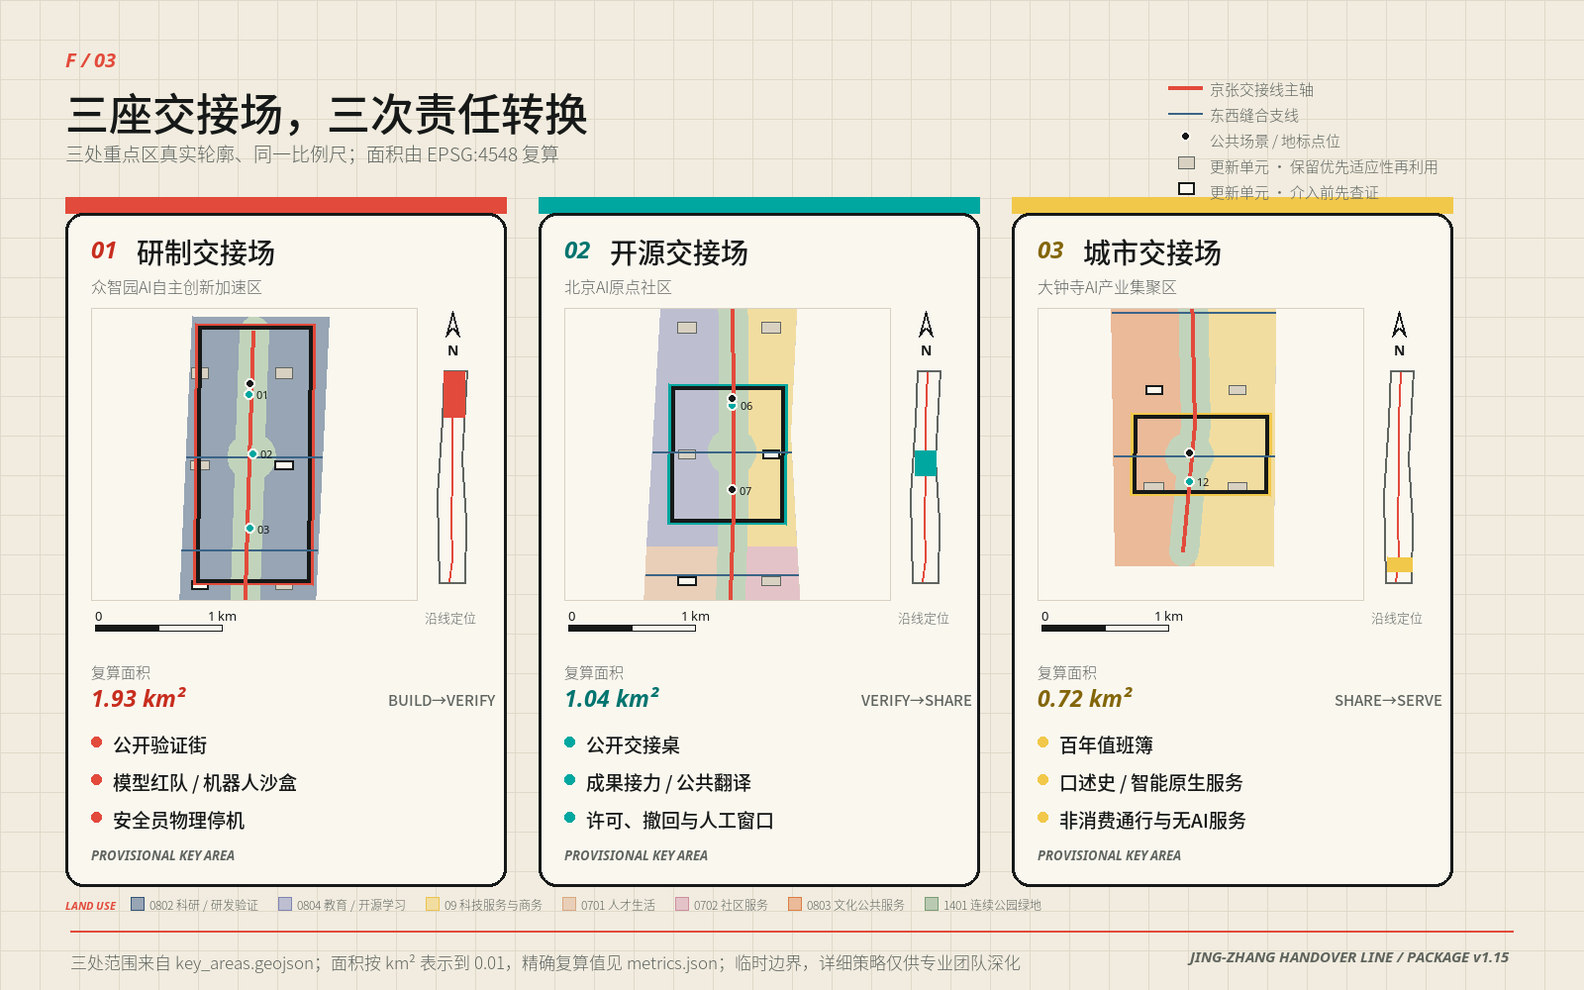
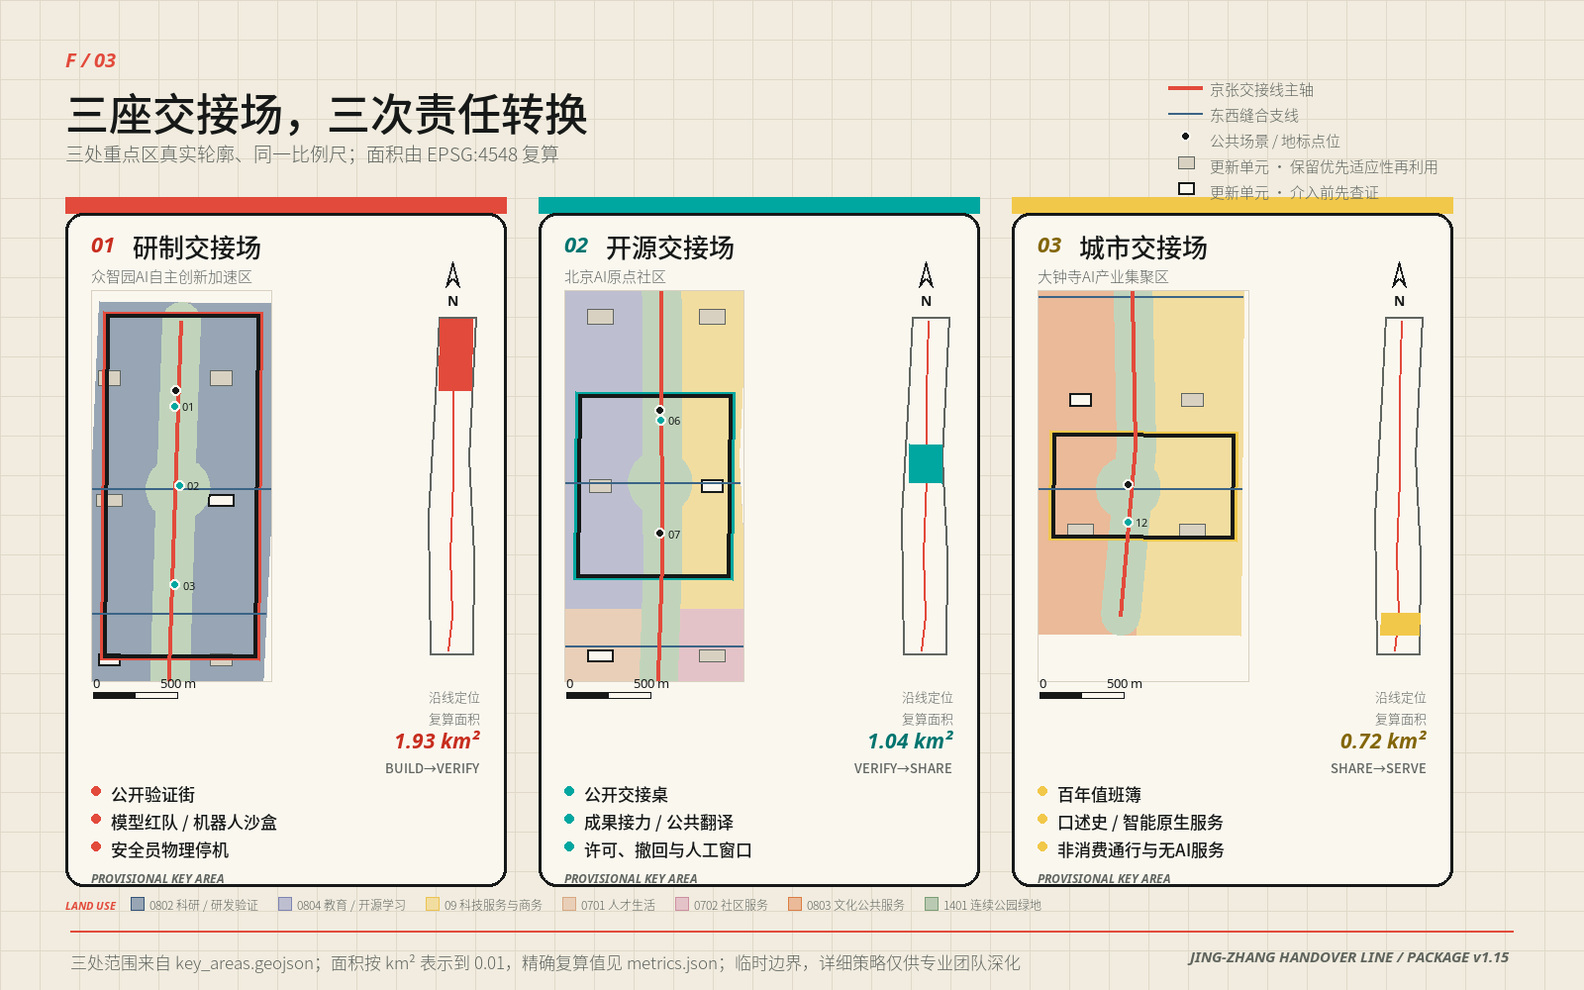
F/03 重做取景：横向裁到各区实际宽度，比例尺 128.2 → 171.6 px/km
F/03 与 F/02、F/04 不是同一个问题——它的窗口早就缩到「最大重点区」，实测
128.2 px/km。缺陷在纵横比：共享跨度 1250 × 2308 m 是 1.85:1 竖向，而主图 tile
是 330 × 296 的 1.11:1 横向，等比映射高度受限，横向恒定浪费 51%，三个重点区
分别只占 tile 面积的 33.1% / 17.8% / 12.3%。

改法：高度跨度仍三区共享（三张主图等高，矮的两区纵向保留周边环境），宽度跨度
按各区自己的范围裁到刚好。三区仍共用同一个 px/m，「同一比例尺可直接比大小」
完全保留；横向占比 33/18/12% → 一律 89%。同时压缩卡内文字，主图高度 296 →
396，比例尺 1.34×。

中间试过「逐区窗口」（宽高都按本区裁）：盲评 A/B 两轮把矮卡下方的空白点为唯一
缺点且结论相反（1:1），已否掉。改成「共享高度、逐区宽度」后重跑两个顺序，两轮
都选新版，且空白判定反转——两轮现在都说旧版才有无效留白。data_loss 均 neither。

导读改准：三张图框宽度不同不是比例尺不同，已写明高度共享、宽度逐区的口径。

自检 formal-review-ready / YES；四道闸门 0 error；54/54、48/48、20/20 退出 0；
确定性校验 PASS，仅余两条既有 warning。

diff --git a/submissions/Sonike/jingzhang-handover-line/report/proposal.en.html b/submissions/Sonike/jingzhang-handover-line/report/proposal.en.html
@@ -218,7 +218,7 @@ code {
 <h2>Detailed Design of Key Areas</h2>
 <p>All three key areas share one spatial order: staffed civic counter, continuous step-free walking surface, directly reachable stop entrance, retained rail trace, machine test lane separated from people, and a planted rest strip with no spending threshold. A machine-only lane may not be inserted between the staffed counter, walkway and stop entrance. This adjacency rule turns human takeover from a process chart into an urban-design relationship <sup class="evidence evidence-depth" data-evidence-kind="depth" data-evidence-value="three_key_area_detailed_design" title="Depth: three_key_area_detailed_design">Depth</sup> <sup class="evidence evidence-standard" data-evidence-kind="standard" data-evidence-value="MOHURD-URBAN-DESIGN-MEASURES" title="Standard: MOHURD-URBAN-DESIGN-MEASURES">Standard</sup>.</p>
 <figure class="proposal-figure"><img src="../assets/figures/key-areas.en.png" alt="Enlarged plans of the three key areas: distinct handover duties, scenario nodes, renewal levers and civic interfaces"><figcaption>Enlarged plans of the three key areas: distinct handover duties, scenario nodes, renewal levers and civic interfaces</figcaption></figure>
-<blockquote><p><strong>How to read this figure.</strong> The three key areas are drawn at the same scale, so their sizes can be compared directly; the narrow strip beside each card shows where that area sits along the whole corridor. The recomputed areas 1.93 / 1.04 / 0.72 km² come from the EPSG:4548 projection and carry the same decimals as <code>metrics.json</code>. The three lines under each card are the public-facing interfaces of that Handover Yard, not a construction list.</p></blockquote>
+<blockquote><p><strong>How to read this figure.</strong> The three key areas are drawn at the same scale, so their sizes can be compared directly — <strong>the three map frames differ in width, not in scale</strong>: frame height is shared across the three (set by the tallest area, so the two shorter ones keep the surrounding corridor above and below), while frame width is cut to each area&#x27;s own extent, which removes the empty left and right margins. Previously all three frames were equally wide even though the widest key area is only 1116 m, so about half of each frame was permanently wasted. The narrow strip beside each card shows where that area sits along the whole corridor. The recomputed areas 1.93 / 1.04 / 0.72 km² come from the EPSG:4548 projection and carry the same decimals as <code>metrics.json</code>. The three lines under each card are the public-facing interfaces of that Handover Yard, not a construction list.</p></blockquote>
 <p><strong>The three key areas are not three similar parks — their shapes already say different things.</strong> Every one of the seven rows below is recomputed directly in EPSG:4548 from <code>geometry/key_areas.geojson</code>, <code>geometry/roads.geojson</code> and <code>geometry/public_space.geojson</code>; the same method returns a spine length of 9499.778 m, matching the declared value in <code>metrics.json</code> digit for digit, so the &quot;length inside the area&quot; rows can be checked with the same ruler. <strong>But read that number correctly: the three decimals are an output of the projection calculation, not a survey precision.</strong> The input alignment is taken from the organiser&#x27;s provisional coarse extent, so <strong>the effective significance of this line reaches only the hundred-metre level — it means &quot;about 9.5 km&quot;</strong>. Full decimals are retained for one purpose only, so anyone can recompute digit by digit; they claim no millimetre measurement. The same rule for every geometry-derived value is stated in <code>metrics.json#precision_policy_en</code>.</p>
 <div class="proposal-table"><table><thead><tr><th>Recomputed item</th><th>Zhongzhiyuan (Build)</th><th>Origin Community (Share)</th><th>Dazhongsi (Serve)</th></tr></thead><tbody><tr><td>Area</td><td>1.93 km²</td><td>1.04 km²</td><td>0.72 km²</td></tr><tr><td>Bounding size (E-W × N-S)</td><td>954 × 2061 m</td><td>948 × 1117 m</td><td>1116 × 657 m</td></tr><tr><td><strong>N-S ÷ E-W</strong></td><td><strong>2.16 (long north-south strip)</strong></td><td><strong>1.18 (near square)</strong></td><td><strong>0.59 (wide east-west band)</strong></td></tr><tr><td>Spine length inside the area</td><td>1999 m (21.0% of the whole)</td><td>1110 m (11.7%)</td><td>651 m (6.8%)</td></tr><tr><td>Stitch links entering</td><td>2 (links 7, 8)</td><td>1 (link 5)</td><td>1 (link 1)</td></tr><tr><td>Scenario nodes</td><td>SCN-01/02/03, <strong>all by appointment or time-bounded and enclosed</strong></td><td>SCN-06/07, <strong>all permanent, working hours</strong></td><td>SCN-12, the annual event route</td></tr><tr><td>Landmarks and renewal cells</td><td>LANDMARK-01 Handover Bell; 5 cells</td><td>LANDMARK-02 Public Handover Table, LANDMARK-04 Takeover Booth Zero; 2 cells</td><td>LANDMARK-03 Century Logbook; 2 cells</td></tr></tbody></table></div>
 <p><strong>Those three ratios invert monotonically: 2.16 → 1.18 → 0.59.</strong> This is no accident of drafting; it is what the three stages of responsibility each demand of the city — <strong>the closer a capability comes to ordinary life, the more the corridor should yield to the cross-city interface</strong>. The north is the corridor&#x27;s own ground: the narrowest, longest shape, 21% of the spine, and all three scenarios requiring physical enclosure. By the south the spine is down to 6.8% and the shape inverts for the first time to wider than it is long — <strong>where service finally meets daily life, this line steps out of the leading role on purpose</strong>. The middle is the turning point: near square, and holding the two most public-facing of the four landmarks inside 1.04 km².</p>

diff --git a/submissions/Sonike/jingzhang-handover-line/report/proposal.html b/submissions/Sonike/jingzhang-handover-line/report/proposal.html
@@ -218,7 +218,7 @@ code {
 <h2>重点区域详细设计</h2>
 <p>三处重点区域共享一套空间顺序：有人值守的公共窗口—连续无障碍步行面—可直接触及的停用入口—保留的铁路线索—与人分离的机器试验带—不设消费门槛的绿化休憩带。机器专用道不得插入人工窗口、步道和停用入口之间；这条相邻规则把“人工接管”从流程图变成了城市设计关系 <sup class="evidence evidence-depth" data-evidence-kind="depth" data-evidence-value="three_key_area_detailed_design" title="深度：three_key_area_detailed_design">深度</sup> <sup class="evidence evidence-standard" data-evidence-kind="standard" data-evidence-value="MOHURD-URBAN-DESIGN-MEASURES" title="标准：MOHURD-URBAN-DESIGN-MEASURES">标准</sup>。</p>
 <figure class="proposal-figure"><img src="../assets/figures/key-areas.png" alt="三处重点区域放大平面：不同交接职责、场景节点、更新抓手与公共界面"><figcaption>三处重点区域放大平面：不同交接职责、场景节点、更新抓手与公共界面</figcaption></figure>
-<blockquote><p><strong>这张图怎么看。</strong> 三处重点区用同一比例尺绘制，可以直接比大小；每张卡片右侧的细长条给出该重点区在整条走廊中的位置。复算面积 1.93 / 1.04 / 0.72 km² 由 EPSG:4548 投影计算，小数位与 <code>metrics.json</code> 一致。卡片下方三行是该交接场向公众开放的界面，不是建设清单。</p></blockquote>
+<blockquote><p><strong>这张图怎么看。</strong> 三处重点区用同一比例尺绘制，可以直接比大小——<strong>三张主图的图框宽度不同，不是比例尺不同</strong>：图框的高度三张共享（按最高的一区定，所以矮的两区在纵向保留了走廊的周边环境），宽度则按各区自己的范围裁到刚好，因此不再留下无内容的左右空白。原先三张图框等宽，而重点区最宽的一个也只有 1116 m，横向恒定浪费约一半画面。每张卡片右侧的细长条给出该重点区在整条走廊中的位置。复算面积 1.93 / 1.04 / 0.72 km² 由 EPSG:4548 投影计算，小数位与 <code>metrics.json</code> 一致。卡片下方三行是该交接场向公众开放的界面，不是建设清单。</p></blockquote>
 <p><strong>三处重点区不是三个相似园区——它们的形状本身就在说不同的话。</strong> 下面七行全部由 <code>geometry/key_areas.geojson</code>、<code>geometry/roads.geojson</code> 与 <code>geometry/public_space.geojson</code> 在 EPSG:4548 下直接复算；同法复算的主轴全长为 9499.778 m，与 <code>metrics.json</code> 的声明值逐位一致，因此下列「区内长度」可以用同一把尺子复核。<strong>但要把这个数读对：三位小数是投影计算的输出，不是实测精度。</strong> 输入线形取自组织方临时粗略范围，<strong>这条线的有效位数实际只到百米级——它的意思是「约 9.5 km」</strong>；保留全部小数位的唯一用途是让任何人逐位复算校对，不是宣称测到了毫米。全部几何推算值的同一口径写在 <code>metrics.json#precision_policy_zh</code>。</p>
 <div class="proposal-table"><table><thead><tr><th>复算项</th><th>众智园（研制）</th><th>原点社区（开源）</th><th>大钟寺（城市）</th></tr></thead><tbody><tr><td>面积</td><td>1.93 km²</td><td>1.04 km²</td><td>0.72 km²</td></tr><tr><td>外接尺度（东西 × 南北）</td><td>954 × 2061 m</td><td>948 × 1117 m</td><td>1116 × 657 m</td></tr><tr><td><strong>南北 ÷ 东西</strong></td><td><strong>2.16（纵向长条）</strong></td><td><strong>1.18（近方形）</strong></td><td><strong>0.59（横向扁）</strong></td></tr><tr><td>主轴在区内长度</td><td>1999 m（占全长 21.0%）</td><td>1110 m（11.7%）</td><td>651 m（6.8%）</td></tr><tr><td>贯入的东西支线</td><td>2 条（支线 7、8）</td><td>1 条（支线 5）</td><td>1 条（支线 1）</td></tr><tr><td>场景节点</td><td>SCN-01／02／03，<strong>全部预约或限时封闭</strong></td><td>SCN-06／07，<strong>全部常设工作时段</strong></td><td>SCN-12，年度活动路线</td></tr><tr><td>地标与更新单元</td><td>LANDMARK-01 交接钟；5 个单元</td><td>LANDMARK-02 公开交接桌、LANDMARK-04 零号接管亭；2 个单元</td><td>LANDMARK-03 百年值班簿；2 个单元</td></tr></tbody></table></div>
 <p><strong>这三个长宽比是单调翻转的：2.16 → 1.18 → 0.59。</strong> 这不是画图的偶然，而是三段责任对城市提出的不同要求——<strong>一项能力越接近日常生活，走廊就越应该让位给横向的城市界面</strong>。北段是廊道的主场：形状最狭长、主轴占到全长的 21%、三个需要物理封闭的测试场景全部在这里；到了南段，主轴只剩 6.8%，形状第一次翻成东西向大于南北向——<strong>在服务真正与日常生活相接的那一段，这条线主动退出主角位置</strong>。中段是转换点：近方形，且四处地标中最面向公众的两处都落在这 1.04 km² 里。</p>

diff --git a/submissions/Sonike/jingzhang-handover-line/changelog.md b/submissions/Sonike/jingzhang-handover-line/changelog.md
@@ -1,5 +1,12 @@
 # 方案迭代记录
 
+- **F/03 重做取景：横向裁到各区实际宽度，消掉恒定约一半的画面浪费（2026-08-21，不改版本号）。** F/03 与 F/02、F/04 不是同一个问题——它的窗口早就缩到「最大重点区」（跨度取三区最大宽与最大高各乘 1.12），实测 **128.2 px/km**，是三张走廊图里最好的。真正的缺陷在纵横比：**共享跨度 1250 × 2308 m 是 1.85:1 的竖向，而主图 tile 是 330 × 296 的 1.11:1 横向**，Viewport 等比映射、高度受限，于是**横向恒定浪费 51%**，三个重点区分别只占 tile 面积的 33.1% / 17.8% / 12.3%。
+  - **改法**：高度跨度仍三区共享（按最高的一区定，所以三张主图等高，矮的两区在纵向保留走廊的周边环境），**宽度跨度改为按各区自己的范围裁到刚好**。三区仍共用同一个 px/m，「同一比例尺、可直接比大小」这条性质完全保留；三区在自己图框里的横向占比由 33/18/12% 一律变成 **89%**。同时压缩卡内文字（名称 28→26、要点 19→17、面积块与流向收成右侧纵向堆叠），主图高度 **296 → 396**，比例尺 **128.2 → 171.6 px/km（1.34×）**。
+  - **中间试过一版被盲评否掉，记在这里以免重走。** 先做的是「逐区窗口」（宽高都按本区裁），比例尺同样是 1.34×，但矮的两区主图变短、下方出现大片空白。**盲评 A/B 两轮把那片空白点为唯一缺点，且两轮结论相反（1:1）**——一轮认为旧版的周边环境反而更有助于辨认卡 3。改成「共享高度、逐区宽度」后重跑两个顺序，**两轮都选新版，且空白的判定反转：两轮现在都说旧版才有无效留白**（「等宽地图框为狭长重点区保留了较多无有效空间信息的左右留白」），正是那 51%。四项判据（`legibility_768`／`comparability`／`spatial_design_content`／`which_would_you_score_higher`）两轮全部指向新版，`data_loss` 两轮均为 `neither`。
+  - **一条边界写进生成器注释**：重点区几何是临时范围的矩形盒子，二十个更新单元也是矩形、中位尺寸 141 × 72 m。放大比例尺只会让这些盒子更清楚，**不会出现建筑级的设计内容**——那要等官方几何。所以 1.34× 已接近「三卡并排 ＋ 同一比例尺 ＋ 保留全部文字」这三个约束下的上限。
+  - **导读同时改准**：三张主图的图框宽度不同，读者可能误读成比例尺不同，正文已写明「图框宽度不同，不是比例尺不同」并说明高度共享、宽度逐区的口径。
+  - 未动：F/01、F/05、全部几何、`metrics.json`、四套图纸。中英同位改动并重出两份 HTML，均 1186 行、69 标题、逐行对齐零错位。
+
 - **重做 F/02 与 F/04 的取景：把 9.7 km 的走廊沿主轴展开，比例尺提 3.92× 与 2.69×（2026-08-21，不改版本号）。** 本轮先量了一件此前没量过的事：**评审看到的图件不是 1600×1000。** `scripts/ai_review_submission.py` 附图用 `"detail": "high"`，图像先缩进 2048 框、再把**短边压到 768**、然后切 512 瓦片，所以送审图件在评审那侧的实际尺寸是 **1229×768、6 个瓦片**。图件本身**不降采样**（脚本里没有 resize，只有 PDF 走 72 dpi），字节上限 `--max-image-bytes` 默认 **4 MiB** 而本包每张只有 150–225 KB——**瓶颈从来不是字节，是版式。**
   - **量出来的浪费**：场地 bbox 是 **1.374 × 9.723 km（纵横比 7.08:1，长轴方位 -90.41°，即几乎正南北）**，图框是 1.60:1。按北在上竖排时，**F/02 的走廊比例尺只有 51.6 px/km、外接范围占画面 2.22%**，F/04 是 51.0 px/km、2.17%。也就是说两张图各有九成七以上的画面不在画走廊。**三份外部评审说的「空间设计含量低、更像运营策划而不是城市设计」，确切来源就在这里——不是内容不够，是取景把它压没了。**
   - **改法是展开取景，不是放大**：沿长轴切段、旋转 90° CW 后横向堆叠。最优段数由可用图面比例决定，**n = sqrt(L·H/(W·w))**。F/02 的地图区 1092×604 给出 n=1.98 → **切 2 段**，比例尺 **51.6 → 202.5 px/km（3.92×）**、外接范围 2.22% → **34.26%**（面积 15.4×）；切 3 段会变成高度受限（约 120 px/km），比 2 段更差。F/04 的地图区在原版式里只有 470 宽，**在那里旋转反而更差（41.7 px/km）**——取景收益取决于「地图区拿到的是长边还是短边」，所以 F/04 改成**全宽单段横条** 1412×200，比例尺 **51.0 → 137.0 px/km（2.69×）**、外接范围 2.17% → **15.67%**，此时 n=1.11 → 单段最优。

diff --git a/submissions/Sonike/jingzhang-handover-line/proposal.en.md b/submissions/Sonike/jingzhang-handover-line/proposal.en.md
@@ -332,7 +332,7 @@ FAR, total floor area, statutory building density, height, setbacks, road redlin
 All three key areas share one spatial order: staffed civic counter, continuous step-free walking surface, directly reachable stop entrance, retained rail trace, machine test lane separated from people, and a planted rest strip with no spending threshold. A machine-only lane may not be inserted between the staffed counter, walkway and stop entrance. This adjacency rule turns human takeover from a process chart into an urban-design relationship [depth:three_key_area_detailed_design] [standard:MOHURD-URBAN-DESIGN-MEASURES].
 
 ![Enlarged plans of the three key areas: distinct handover duties, scenario nodes, renewal levers and civic interfaces](assets/figures/key-areas.en.png)
-> **How to read this figure.** The three key areas are drawn at the same scale, so their sizes can be compared directly; the narrow strip beside each card shows where that area sits along the whole corridor. The recomputed areas 1.93 / 1.04 / 0.72 km² come from the EPSG:4548 projection and carry the same decimals as `metrics.json`. The three lines under each card are the public-facing interfaces of that Handover Yard, not a construction list.
+> **How to read this figure.** The three key areas are drawn at the same scale, so their sizes can be compared directly — **the three map frames differ in width, not in scale**: frame height is shared across the three (set by the tallest area, so the two shorter ones keep the surrounding corridor above and below), while frame width is cut to each area's own extent, which removes the empty left and right margins. Previously all three frames were equally wide even though the widest key area is only 1116 m, so about half of each frame was permanently wasted. The narrow strip beside each card shows where that area sits along the whole corridor. The recomputed areas 1.93 / 1.04 / 0.72 km² come from the EPSG:4548 projection and carry the same decimals as `metrics.json`. The three lines under each card are the public-facing interfaces of that Handover Yard, not a construction list.
 
 
 **The three key areas are not three similar parks — their shapes already say different things.** Every one of the seven rows below is recomputed directly in EPSG:4548 from `geometry/key_areas.geojson`, `geometry/roads.geojson` and `geometry/public_space.geojson`; the same method returns a spine length of 9499.778 m, matching the declared value in `metrics.json` digit for digit, so the "length inside the area" rows can be checked with the same ruler. **But read that number correctly: the three decimals are an output of the projection calculation, not a survey precision.** The input alignment is taken from the organiser's provisional coarse extent, so **the effective significance of this line reaches only the hundred-metre level — it means "about 9.5 km"**. Full decimals are retained for one purpose only, so anyone can recompute digit by digit; they claim no millimetre measurement. The same rule for every geometry-derived value is stated in `metrics.json#precision_policy_en`.

diff --git a/submissions/Sonike/jingzhang-handover-line/proposal.md b/submissions/Sonike/jingzhang-handover-line/proposal.md
@@ -332,7 +332,7 @@ iteration: "v1.15"
 三处重点区域共享一套空间顺序：有人值守的公共窗口—连续无障碍步行面—可直接触及的停用入口—保留的铁路线索—与人分离的机器试验带—不设消费门槛的绿化休憩带。机器专用道不得插入人工窗口、步道和停用入口之间；这条相邻规则把“人工接管”从流程图变成了城市设计关系 [depth:three_key_area_detailed_design] [standard:MOHURD-URBAN-DESIGN-MEASURES]。
 
 ![三处重点区域放大平面：不同交接职责、场景节点、更新抓手与公共界面](assets/figures/key-areas.png)
-> **这张图怎么看。** 三处重点区用同一比例尺绘制，可以直接比大小；每张卡片右侧的细长条给出该重点区在整条走廊中的位置。复算面积 1.93 / 1.04 / 0.72 km² 由 EPSG:4548 投影计算，小数位与 `metrics.json` 一致。卡片下方三行是该交接场向公众开放的界面，不是建设清单。
+> **这张图怎么看。** 三处重点区用同一比例尺绘制，可以直接比大小——**三张主图的图框宽度不同，不是比例尺不同**：图框的高度三张共享（按最高的一区定，所以矮的两区在纵向保留了走廊的周边环境），宽度则按各区自己的范围裁到刚好，因此不再留下无内容的左右空白。原先三张图框等宽，而重点区最宽的一个也只有 1116 m，横向恒定浪费约一半画面。每张卡片右侧的细长条给出该重点区在整条走廊中的位置。复算面积 1.93 / 1.04 / 0.72 km² 由 EPSG:4548 投影计算，小数位与 `metrics.json` 一致。卡片下方三行是该交接场向公众开放的界面，不是建设清单。
 
 
 **三处重点区不是三个相似园区——它们的形状本身就在说不同的话。** 下面七行全部由 `geometry/key_areas.geojson`、`geometry/roads.geojson` 与 `geometry/public_space.geojson` 在 EPSG:4548 下直接复算；同法复算的主轴全长为 9499.778 m，与 `metrics.json` 的声明值逐位一致，因此下列「区内长度」可以用同一把尺子复核。**但要把这个数读对：三位小数是投影计算的输出，不是实测精度。** 输入线形取自组织方临时粗略范围，**这条线的有效位数实际只到百米级——它的意思是「约 9.5 km」**；保留全部小数位的唯一用途是让任何人逐位复算校对，不是宣称测到了毫米。全部几何推算值的同一口径写在 `metrics.json#precision_policy_zh`。
